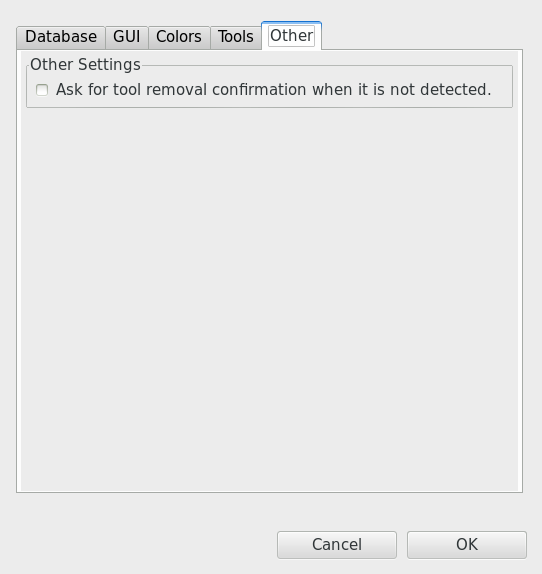
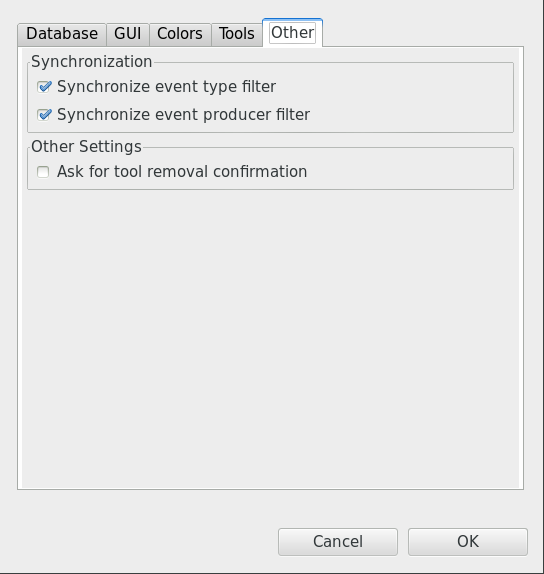
Updated user guide for version 1.0.10

Changed region(s): [[0.0295, 0.0296, 0.9742, 0.8589], [0.5018, 0.9181, 0.9742, 0.9774], [0.9742, 0.9774, 1.0, 1.0]]

diff --git a/user_guide/framesoc_user_guide.tex b/user_guide/framesoc_user_guide.tex
@@ -18,7 +18,7 @@
 
 %%
 %% date
-\RRdate{July 2015}
+\RRdate{October 2015}
 %%
 %% If version 2
 %% \RRversion{2}
@@ -61,7 +61,7 @@ Generoso Pagano\thanks{INRIA, firstname.lastname@inria.fr}, Youenn Corre\footnot
 \newcommand{\subparag}[1]{\subparagraph{#1}\mbox{}\\}
 \newcommand{\subsubparag}[1]{\subparagraph{#1}}
 \newcommand{\num}[1]{\textcolor{red}{#1}}
-\newcommand{\numVersion}{v1.0.9}
+\newcommand{\numVersion}{v1.0.10}
 %% 
 %% Itemize
 \renewcommand{\labelitemi}{$\bullet$}
@@ -356,8 +356,9 @@ The event type filter dialog, illustrated in Figure \ref{fig:etype_dialog}, disp
 
 Note that as opposed to the time management bar, where in order to perform the filtering on time the user has to press a button, these filters are applied immediately after the user has pressed the \emph{OK} button in the dialog.
 
-\paragraph{View communication} Using the Framesoc Bus (described in the RT-447~\cite{pagano:hal-00977887}), Framesoc views can communicate with each other. This mechanism is mostly used to synchronize the different views on time intervals, and to propagate to all the views changes in colors (see Subsection~\ref{subsec:colors}) or trace metadata (see Subsection~\ref{subsec:metadata}).
-Regarding time interval synchronization, in the toolbar of each Framesoc analysis view, there are some \emph{Show in...} buttons, allowing the user to pass from one view to another, still keeping the same trace and the same time interval. Figure~\ref{fig:show_in} shows all the possible \emph{Show in...} buttons. 
+\paragraph{View communication} Using the Framesoc Bus (described in the RT-447~\cite{pagano:hal-00977887}), Framesoc views can communicate with each other. This mechanism is mostly used to synchronize the different views on time intervals, filters (both for event type and event producer), and to propagate to all the views changes in colors (see Subsection~\ref{subsec:colors}) or trace metadata (see Subsection~\ref{subsec:metadata}).
+Regarding time interval and filter synchronization, in the toolbar of each Framesoc analysis view, there are some \emph{Show in...} buttons, allowing the user to pass from one view to another, still keeping the same trace and the same time interval. Figure~\ref{fig:show_in} shows all the possible \emph{Show in...} buttons. 
+Synchronization for the filters can be enabled/disabled through the configuration dialog (see Subsection \ref{conf_other}).
 
 \begin{figure}[h!]
   \centering
@@ -534,13 +535,15 @@ This kind of representation is pretty common in trace analysis frameworks (e.g.,
 
 The main element of this view is a Gantt viewer\footnote{The viewer is based on the one available in the Lttng Eclipse Viewer~\cite{lttng_viewer}}, which is composed of two parts.
 
-On the left there is the hierarchy of event producers. 
-Double clicking on a non-leaf node of the tree, the node is expanded/collapsed.
-Right clicking on a node, a contextual menu is shown. 
+On the left, there is the hierarchy of event producers.
+Double-clicking on a non-leaf node of the tree, the node is expanded/collapsed.
+Right-clicking on a node, a contextual menu is shown.
 For leaf nodes, the menu allows the user to hide them.
 For non-leaf nodes, the menu allows the user to hide them and their sons, or to expand/collapse them.
+Note that the top event producers of the hierarchy might be merged into one single entry, provided that none of them actually produce any event. 
+The entry for the merged producers will contain all their names separated by "-".
 
-On the right there is the actual time chart, showing for each producer all the punctual events it generates (represented as simple vertical lines) and all the states it spends time in (represented as colored rectangles). 
+On the right, there is the actual time chart, showing for each producer all the punctual events it generates (represented as simple vertical lines) and all the states it spends time in (represented as colored rectangles). 
 If there are links in the trace (e.g., communications), they are represented as oriented arrows.
 The Gantt chart does not currently consider variables.
 The colors used for the different entities depend on the event type.
@@ -552,8 +555,11 @@ For each entity the tooltip contains specific information:
  \item for a punctual event: the producer, the type and the timestamp.
 \end{itemize}
 
-Zooming in/out on a given point of the Gantt chart, is done putting the mouse on the point of interest, then moving the mouse wheel while pressing \texttt{CTRL}.
-When zooming in/out the following functionalities can be triggered:
+Right-clicking on a non-empty element of the Gantt will pop-up a contextual menu.
+From this menu, it is possible to filter out the type of the element, to change the color of the type of the element and to show the element in the Event Table.
+
+Zooming in/out on a given point of the Gantt chart, is performed by putting the mouse on the point of interest, then scrolling the mouse wheel while pressing \texttt{CTRL}.
+When zooming in/out, the following functionalities can be triggered:
 \begin{itemize}
  \item State aggregation: if there are not enough pixels to show all the states in a given time region, these states are aggregated and a black point is displayed above the point where the aggregation took place. 
  \item Link filtering: if there are not enough pixels to show all the links in a given time region, only the visible links are shown. 
@@ -794,7 +800,7 @@ Note also that plugin tools cannot be added, edited or removed via the manage to
 Plugin tools are installed and removed using the normal Eclipse procedure (\textbf{Help $>$ Install New Software...} menu). 
 
 \subsubsection{Other}
-
+\label{conf_other}
 \begin{figure}[h!]
   \centering
     \includegraphics[width=0.5\textwidth]{images/conf_other.png}
@@ -804,8 +810,12 @@ Plugin tools are installed and removed using the normal Eclipse procedure (\text
 
 The \emph{Other} (Fig.\ref{fig:other_tab}) tab shows miscellaneous options: 
 \begin{itemize}
+	\item \emph{Synchronize event type filter}: specifies whether the event type filter will be synchronized in the new view when using one of the switching-view buttons.
+	\item \emph{Synchronize event producer filter}: specifies whether the event producer filter will be synchronized in the new view when using one of the switching-view buttons.
 	\item \emph{Ask for Tool Removal}: when a tool is present in the database but is no longer loaded in Framesoc, Framesoc deletes the corresponding tool entry from the database. This option enables to show a dialog, letting the user decide to keep or delete the tool from the database.
 \end{itemize}
+
+
 
 \subsection{Trace Import}
 \label{subsec:import}
@@ -878,9 +888,11 @@ It contains the following parameters:
  \item[soctrace\_db\_name]: Name of the Framesoc System DB.
  \item[max\_view\_instances]: Maximum number of instances for a given type of analysis views.
  \item[trace\_db\_ts\_indexing]: Boolean stating if automatic time indexing is done at trace import.
- \item[trace\_db\_eid\_indexing]: Boolean stating if automatic indexing on event ID in EVENT\_PARAM table 
+ \item[trace\_db\_eid\_indexing]: Boolean stating if automatic indexing on event ID in EVENT\_PARAM table.
  \item[ask\_for\_tool\_removal]: Boolean stating if user confirmation must be asked when removing a tool and its results.
  \item[allow\_view\_replication]: Boolean stating if it is possible to open more instances of the same type of view for a given trace.
+ \item[type\_filter\_synchronization]: Boolean stating if the event type filter is synchronized when switching view.
+ \item[producer\_filter\_synchronization]: Boolean stating if the event producer filter is synchronized when switching view.
 
 \end{description}
 
